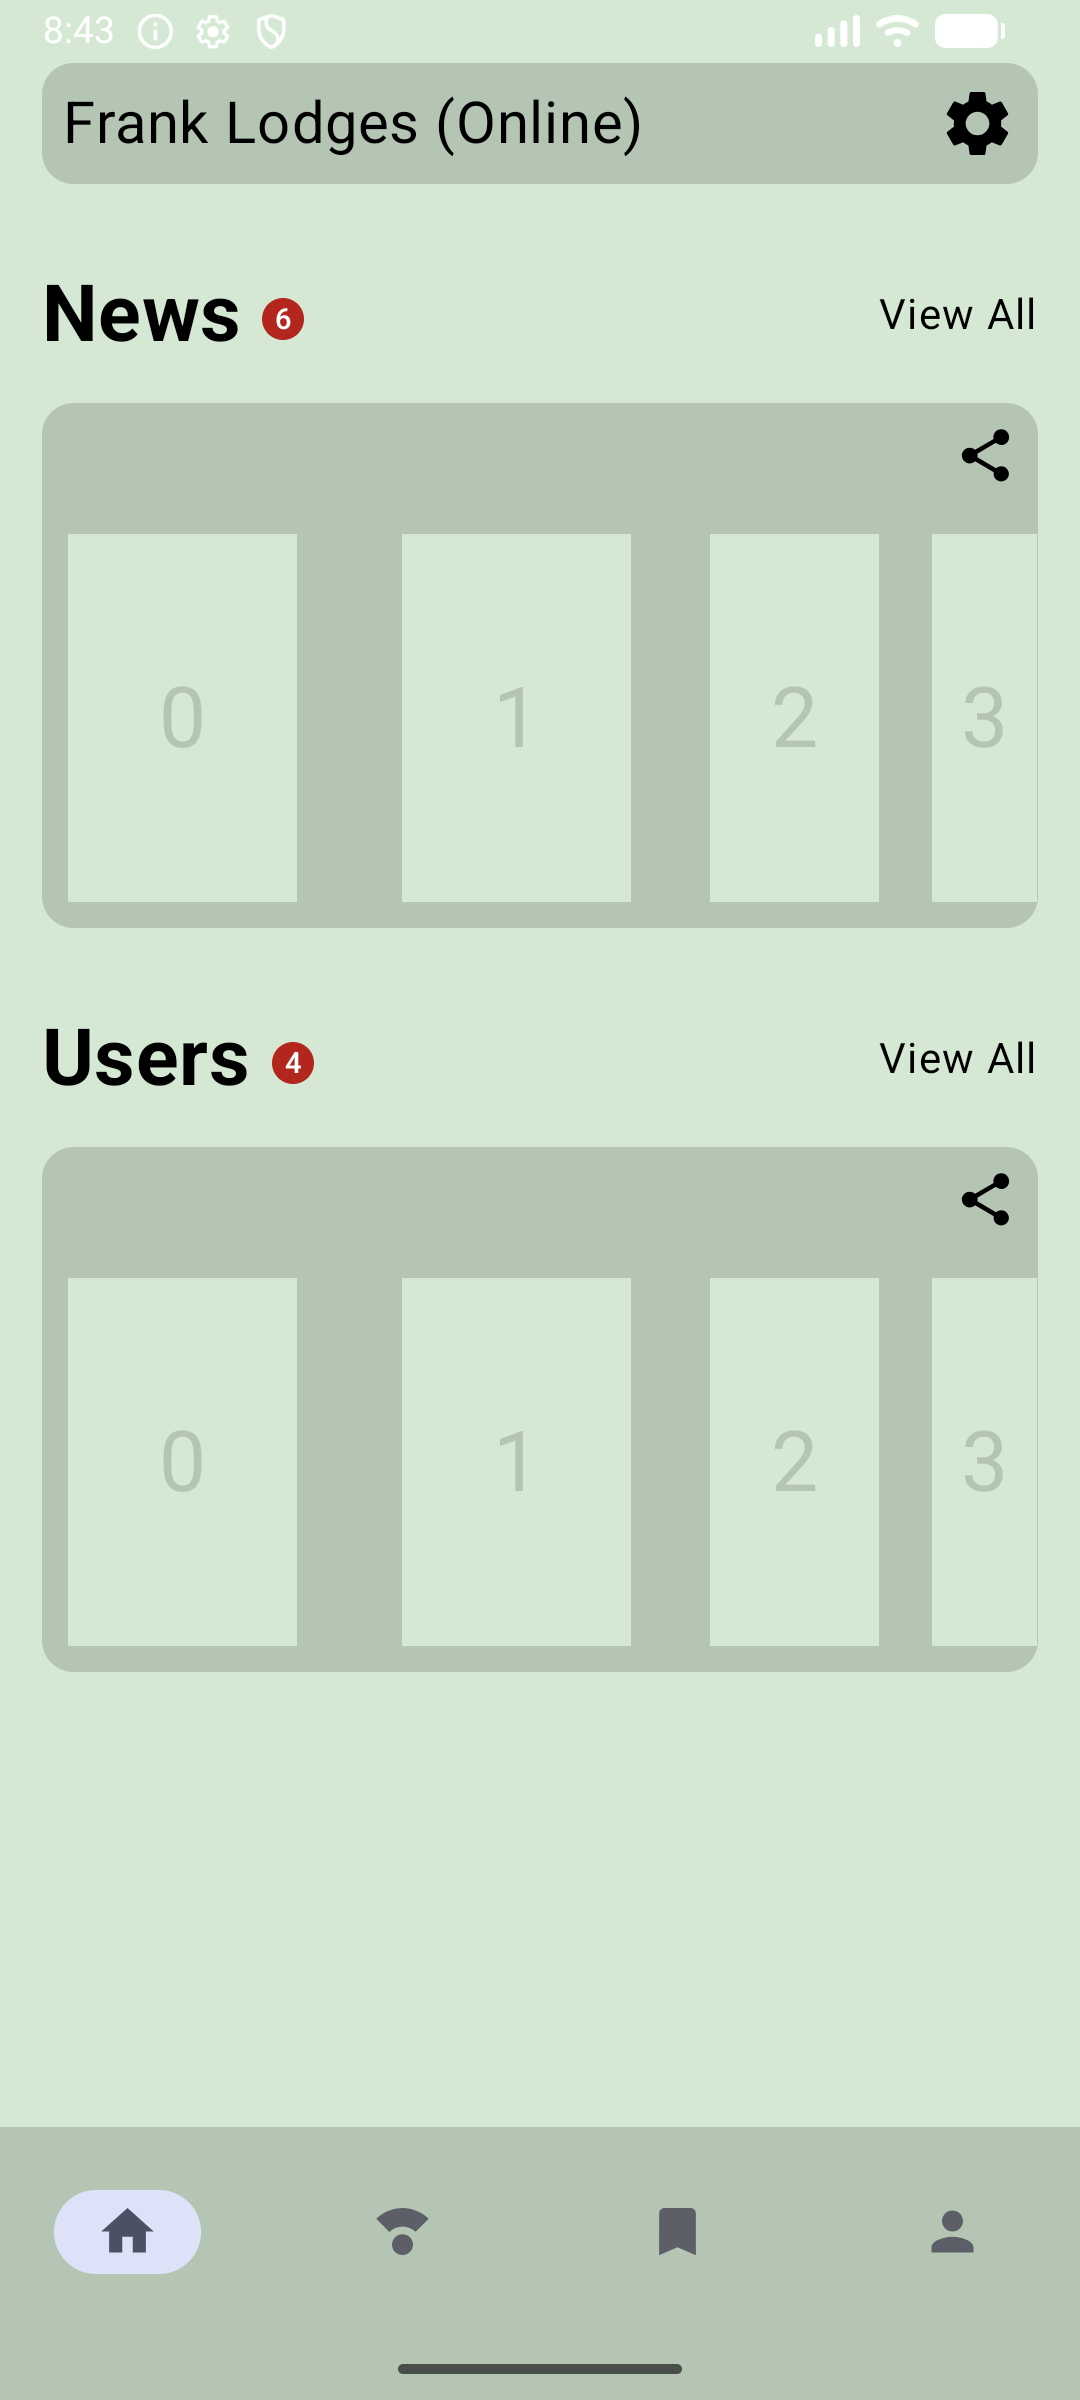
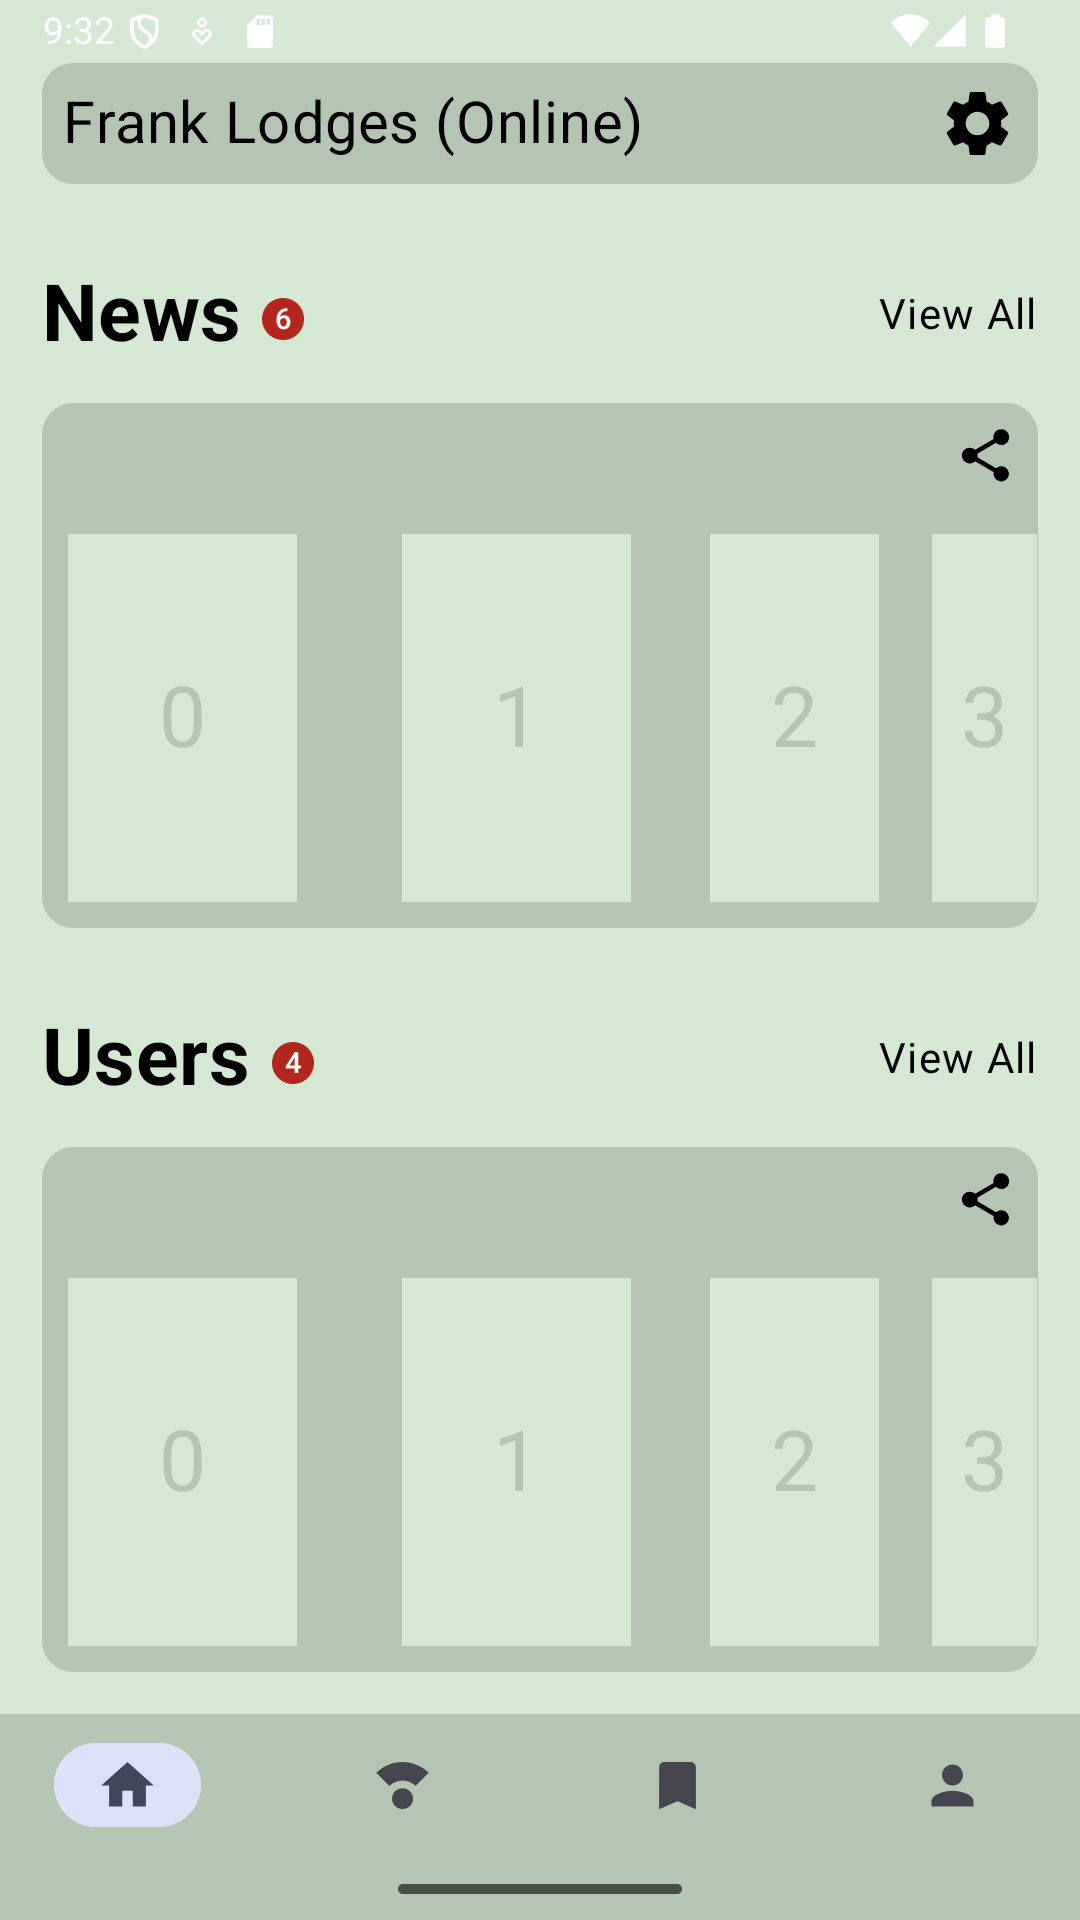
fixed repeated screenshots and replaced the basic dashboard that looked asymetric

diff --git a/README.md b/README.md
@@ -63,14 +63,6 @@ Please Check the directory `screens/` to see each screen implementation.
     <td><img src="screenshots/compose_taximeter.png" width="300"></td>
   </tr> 
   <tr>
-    <td><b>Checklist Done</b></td>
-    <td><b>Quadrants</b></td>
-  </tr>
-  <tr>
-    <td><img src="screenshots/compose_checklist.png" width="300"></td>
-    <td><img src="screenshots/compose_quadrants.png" width="300"></td>
-  </tr>
-  <tr>
     <td><b>Basic Dashboard</b></td>
     <td><b>Dice Roller</b></td>
   </tr>
